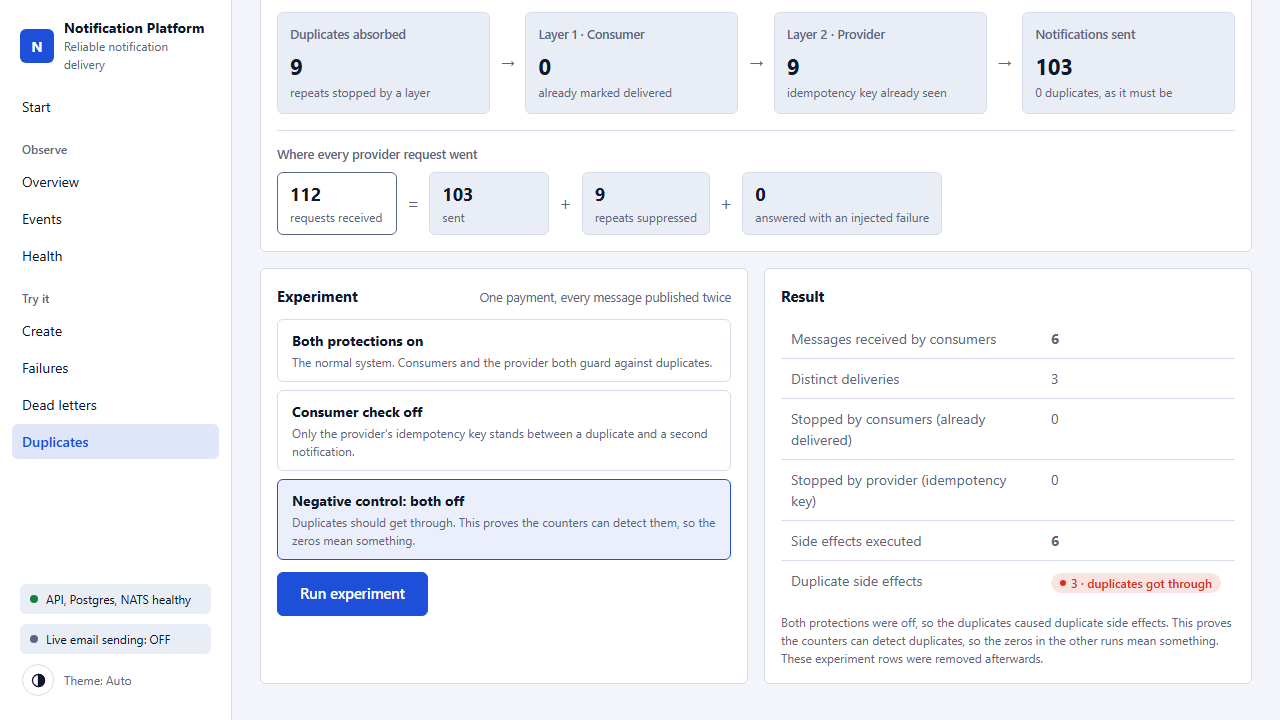
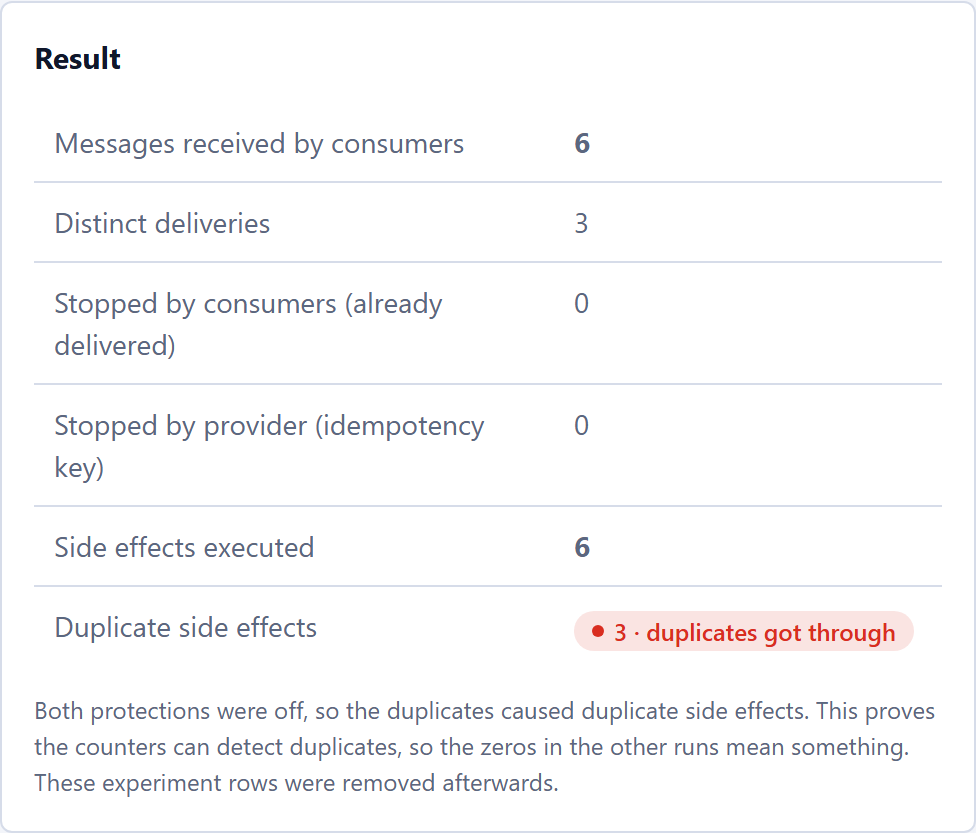
docs(readme): final architecture diagram with the reconciler, and cropped Duplicates screenshots
The diagram is regenerated from the approved Start page layout (marker 8 for the reconciler).
The two Duplicates screenshots are cropped to the Result card at double resolution, with labelled
columns, so the difference between "0 duplicate side effects" and "3 got through" is readable.

diff --git a/README.md b/README.md
@@ -7,7 +7,7 @@ broker, a consumer or the external provider crashes, and a repeated message must
 
 <p align="center"><img src="docs/images/architecture.svg" alt="Architecture: a client sends an event to the API, which saves it in PostgreSQL in one transaction; a relay publishes it to NATS JetStream; one consumer per channel calls the provider, which records one effect per idempotency key. A reconciler inside the relay repairs deliveries the broker lost." width="100%"></p>
 
-1. The client sends an event with an `Idempotency-Key`. 2. The API saves the business row, an outbox record and one delivery row per channel in **one transaction**. 3. A relay claims due outbox rows with a lease. 4. It publishes one small message per channel to NATS JetStream, waits for the broker's confirmation, then marks the event published. 5. Each channel's consumer pulls its messages. 6. The consumer calls the provider with an idempotency key; the provider records the key and the effect in one transaction. 7. The consumer records the delivery as done. The dashed box is the **reconciler**, a background safety net inside the relay that republishes deliveries the broker lost.
+1. The client sends an event with an `Idempotency-Key`. 2. The API saves the business row, an outbox record and one delivery row per channel in **one transaction**. 3. A relay claims due outbox rows with a lease. 4. It publishes one small message per channel to NATS JetStream, waits for the broker's confirmation, then marks the event published. 5. Each channel's consumer pulls its messages. 6. The consumer calls the provider with an idempotency key; the provider records the key and the effect in one transaction. 7. The consumer records the delivery as done. 8. In the background, the **reconciler** (the dashed box, inside the relay) finds deliveries the broker lost after confirming them and sends them back through the relay to be published again.
 
 > **Scope: what is real and what is mocked.** The pipeline (two PostgreSQL databases, NATS JetStream, relays, consumers), the load, the injected failures (real `SIGKILL`s, real container stops, a purge of the broker's stream) and the counting are real. **The provider is a mock**: it stands in for the email, push and webhook services, has its own database, and an "effect" is a row it records, not a delivered email or push. It honors idempotency keys, so the claim is **"0 duplicate side effects at a provider that honors idempotency keys"**; it is not a measurement of real notification delivery. For a provider that does not honor keys (for example real SMTP, an optional mode here) the guarantee is at-least-once with a rare duplicate. All results are from one Windows laptop under Docker Desktop; there are no Linux numbers yet.
 
@@ -53,8 +53,12 @@ The **Duplicates** page runs the central experiment: one payment, every message 
 
 <table>
 <tr>
-<td width="50%"><img src="docs/images/dashboard-duplicates-normal.png" alt="Duplicates page, both protections on: 6 messages received by consumers, 3 stopped by the provider's idempotency key, 3 side effects executed, 0 duplicate side effects."></td>
-<td width="50%"><img src="docs/images/dashboard-duplicates-control.png" alt="Duplicates page, negative control with both protections off: 6 side effects executed, 3 duplicate side effects got through."></td>
+<th width="50%">Both protections on</th>
+<th width="50%">Negative control: both protections off</th>
+</tr>
+<tr>
+<td><img src="docs/images/dashboard-duplicates-normal.png" alt="Result card, both protections on: 6 messages received by consumers, 3 stopped by the provider's idempotency key, 3 side effects executed, 0 duplicate side effects."></td>
+<td><img src="docs/images/dashboard-duplicates-control.png" alt="Result card, negative control with both protections off: 6 side effects executed, 3 duplicate side effects got through."></td>
 </tr>
 </table>
 
